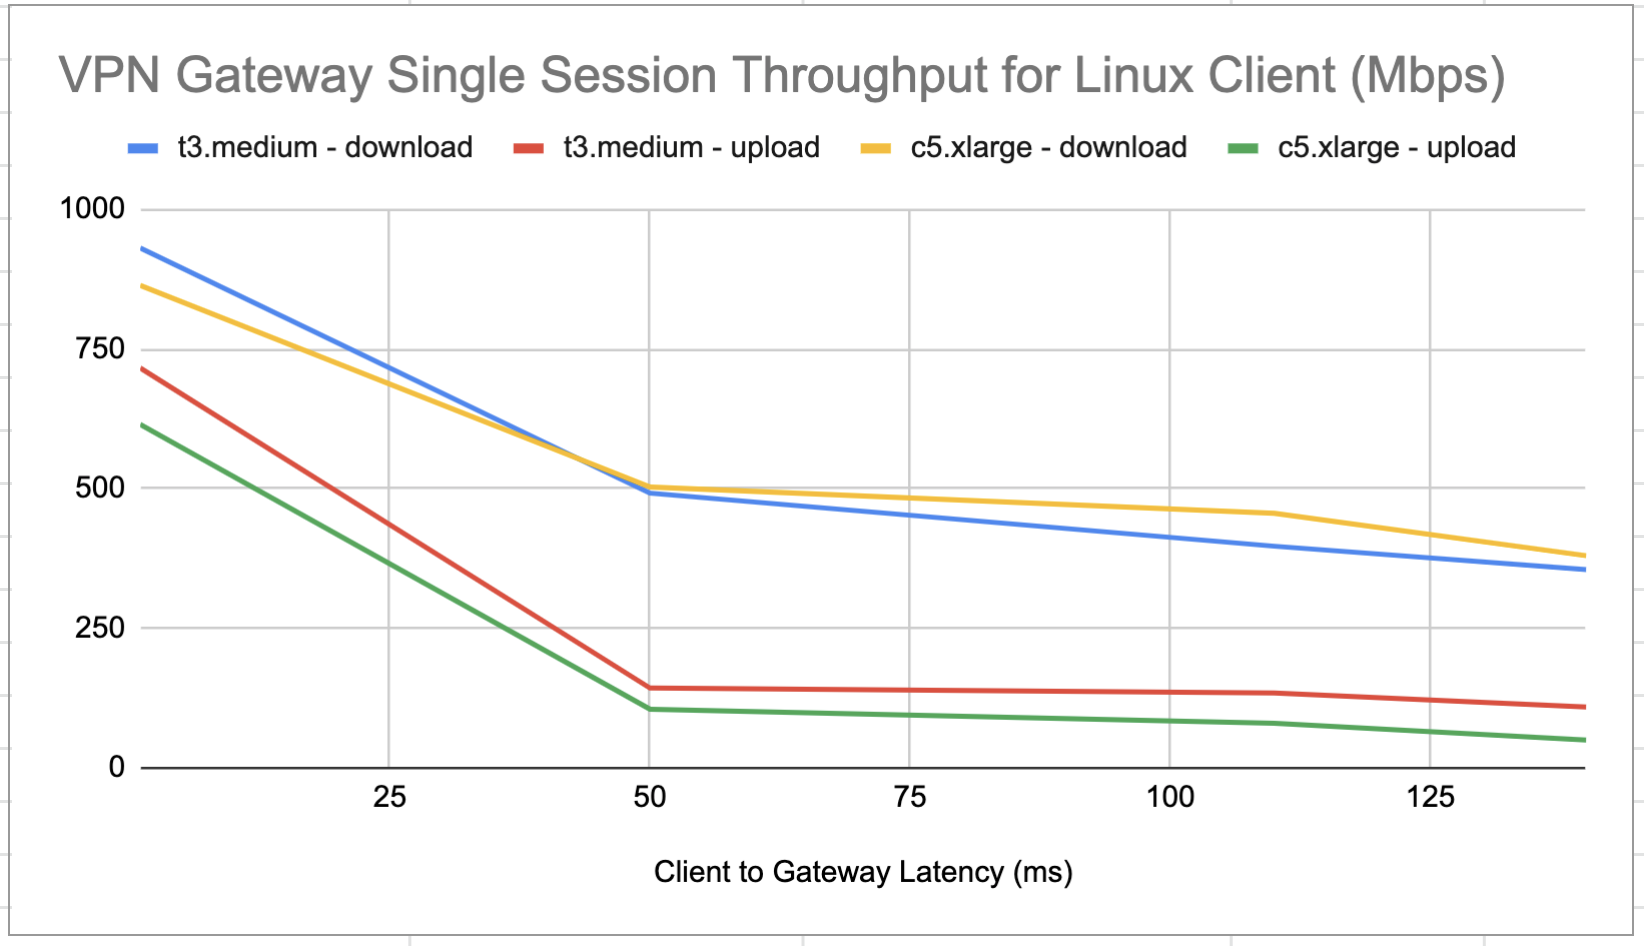
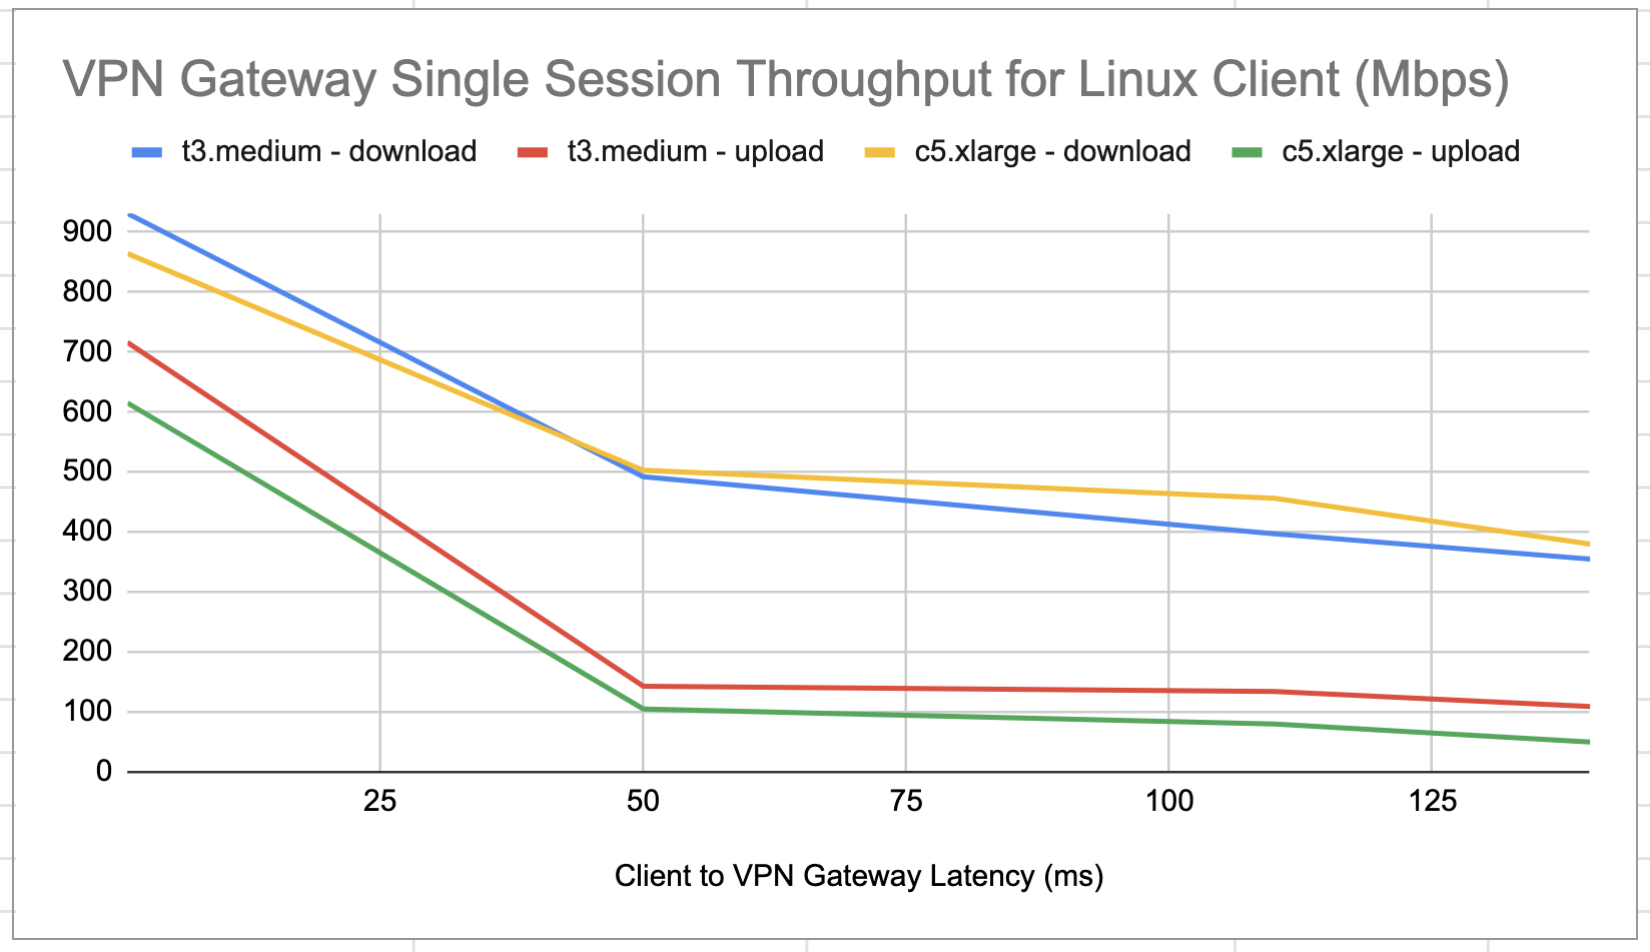
update explanations

diff --git a/HowTos/openvpn_faq.rst b/HowTos/openvpn_faq.rst
@@ -395,9 +395,12 @@ Aviatrix VPN gateways are deployed behind cloud provider's native load balancer,
 scales to unlimited number of VPN gateways capable of supporting unlimited number of 
 simultaneous VPN client connections. 
 
-Aviatrix VPN solution supports both UDP based and TCP based VPN, they have similar performance
-characteristics. The char below benchmarks a VPN gateway's single session performance 
-while using TCP VPN. 
+Aviatrix VPN solution supports both UDP and TCP mode VPN deployments. They have similar performance
+characteristics. The chart below benchmarks a VPN client's single session download and upload speed 
+on one VPN gateway in TCP mode 
+The benchmark provides a reference information on selecting VPN gateway instance size. 
+Note actual VPN client performance also depends on client's Internet ISP speed, packet loss ratio
+and other factors.
 
 The chart below is measured on a Windows client. 
 
